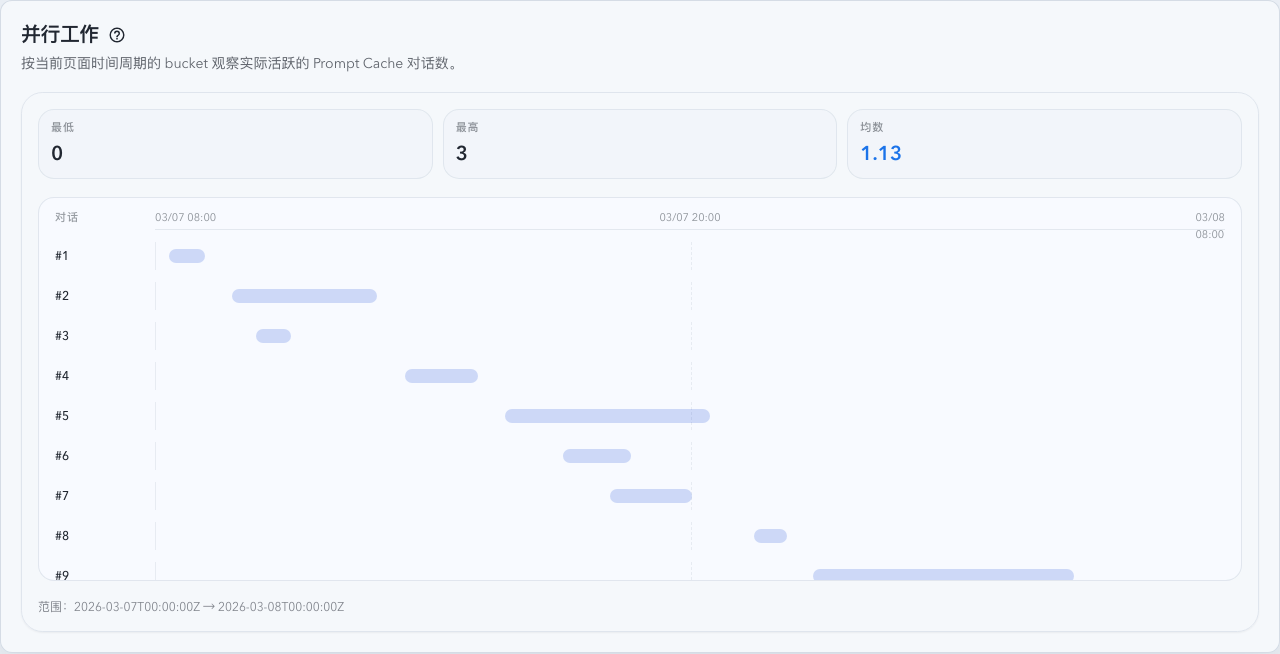
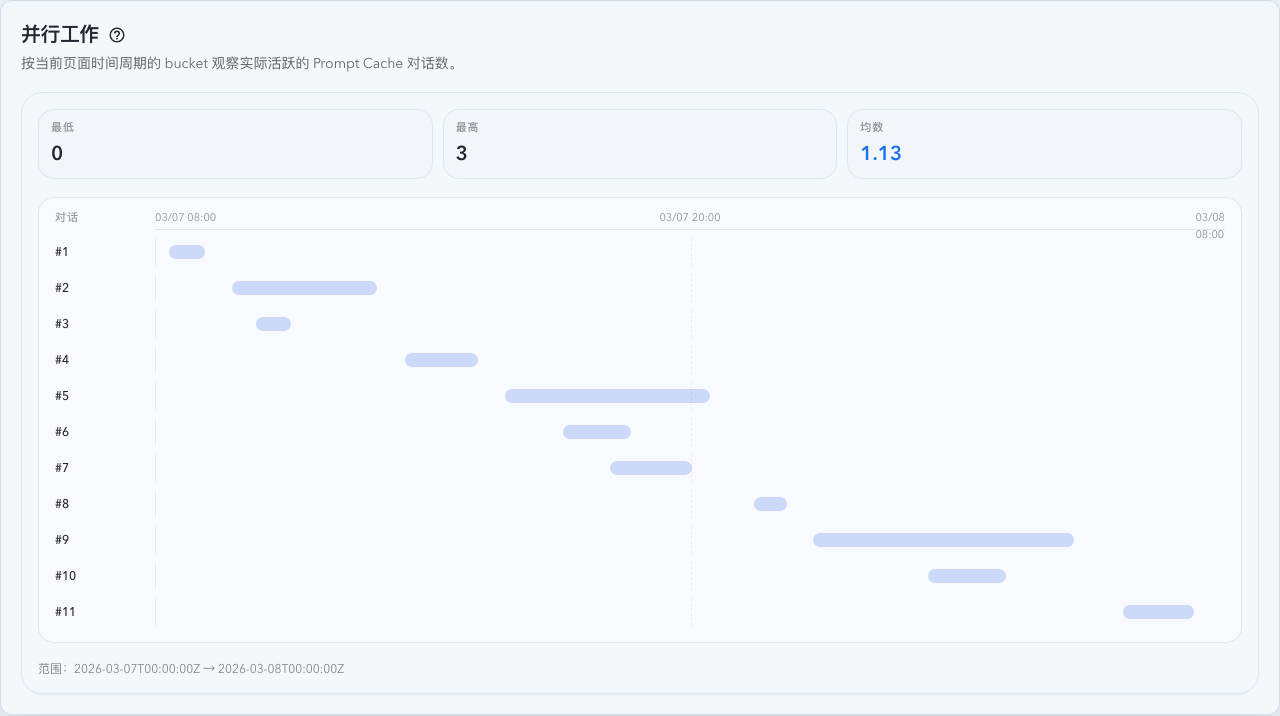
fix(web): let parallel work timeline expand fully

diff --git a/web/src/components/ParallelWorkStatsSection.tsx b/web/src/components/ParallelWorkStatsSection.tsx
@@ -643,8 +643,6 @@ function ParallelWorkConversationGantt({
   const rangeStartMs = Date.parse(window.rangeStart);
   const rangeEndMs = Date.parse(window.rangeEnd);
   const rangeMs = Math.max(1, rangeEndMs - rangeStartMs);
-  const rowHeight = 30;
-  const timelineHeight = Math.min(520, Math.max(168, conversations.length * rowHeight + 54));
   const axisLabels = [
     window.rangeStart,
     new Date(rangeStartMs + rangeMs / 2).toISOString(),
@@ -674,10 +672,9 @@ function ParallelWorkConversationGantt({
           data-chart-kind="parallel-work-sparkline"
           data-chart-mode="conversation-gantt"
           data-testid="parallel-work-conversation-gantt"
-          style={{ height: timelineHeight }}
         >
           <div className="min-w-[720px] px-4 pb-4 pt-3">
-            <div className="grid grid-cols-[5.5rem_minmax(0,1fr)] gap-3">
+            <div className="grid grid-cols-[5.5rem_minmax(0,1fr)] gap-x-3 gap-y-2">
               <div className="text-[11px] font-medium uppercase tracking-[0.08em] text-base-content/45">
                 {locale === "zh" ? "对话" : "Conversation"}
               </div>